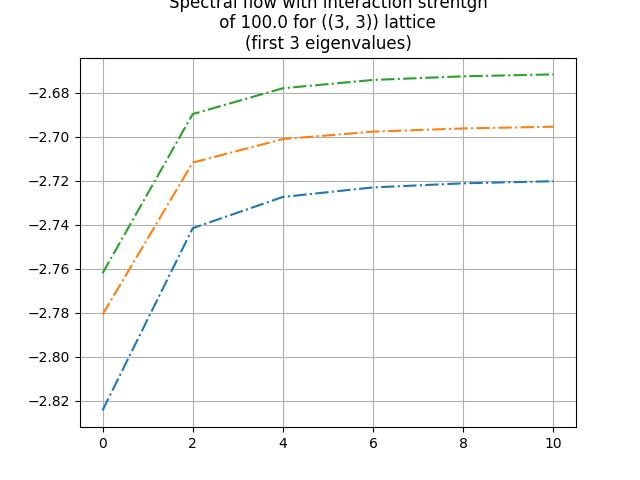
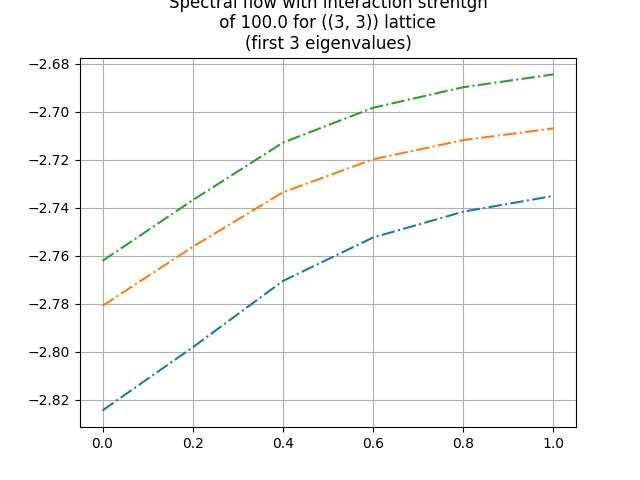
local pot result

diff --git a/local_pot.py b/local_pot.py
@@ -14,13 +14,13 @@ Ny = 6
 path = str(f"./results/local_potential/interaction_shift/Nx-{Nx}_Ny-{Ny}")
 os.makedirs(path, exist_ok=True)
 
-pot_strength_list = np.linspace(0,10,num=5+1)
+pot_strength_list = np.linspace(0,0.1,num=25+1)
 
 H_non_interacting = sparse.load_npz(str(f'data/matrix/H_Nx-{Nx}_Ny-{Ny}.npz'))
 interaction = sparse.load_npz(str(f'data/matrix/interactions_Nx-{Nx}_Ny-{Ny}.npz'))
 local_pot = sparse.load_npz(str(f'data/matrix/local_potential_Nx-{Nx}_Ny-{Ny}.npz'))
 
-for interaction_strength in ([1e-3, 1e-2, 1e-1, 1e0, 1e1, 1e2, 1e3]):
+for interaction_strength in ([1e-1, 1e0, 1e1, 1e2, 1e3]):
     print(f"interaction strength = {interaction_strength}")
     eigenvalues_list = []
     H = H_non_interacting + interaction_strength * interaction
